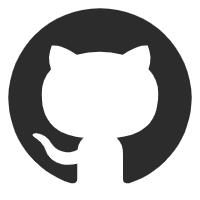
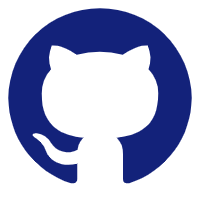
update

diff --git a/css/style.css b/css/style.css
@@ -16,7 +16,7 @@ p {
     line-height: 1.6; 
 }
 
-/* 响应式设计 */
+
 @media (max-width: 768px) {
     .container {
         width: 100%;
@@ -24,13 +24,29 @@ p {
 
     .icon-item img {
         height: 30px; 
+		transition: filter 0.3s;
     }
+
 }
 
 .icon-container {
     text-align: center;
 }
 
+.icon-item a {
+	    color: #13227a; 
+	    text-decoration: none; 
+	    transition: color 0.3s; 
+}
+
+	.icon-item a:hover {
+	    color: mediumpurple; 
+}
+	
+	.icon-item a:hover img {
+	    filter: brightness(0) saturate(100%) invert(39%) sepia(90%) saturate(3516%) hue-rotate(239deg) brightness(98%) contrast(104%); /
+}
+	
 .icon-list {
     list-style: none;
     padding: 0;
